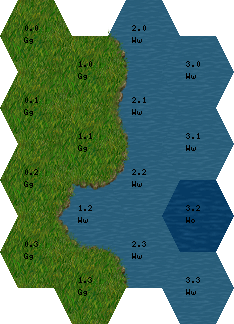
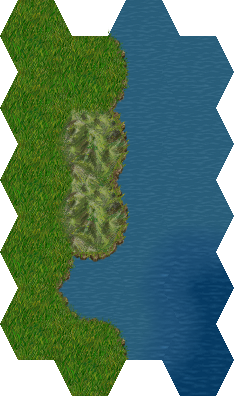
improved height transitions

diff --git a/config/height-transitions.php b/config/height-transitions.php
@@ -9,5 +9,10 @@ return array(
     //water to flat (grassland etc.)
     'water' => array(
         Transition::create($terrainTypes->get('flat'), array('flat/flat' => 3)),
+        Transition::create($terrainTypes->get('hills'), array('flat/flat' => 3)),
+    ),
+    'hills' => array(
+        Transition::create($terrainTypes->get('flat'), array('flat/flat' => 3)),
+        Transition::create($terrainTypes->get('water'), array('flat/flat' => 3)),
     ),
 );

diff --git a/config/terrain-transitions.php b/config/terrain-transitions.php
@@ -20,7 +20,8 @@ return array(
     
     //hills
     'Hh' => array(
-        Transition::create($terrainTypes->get('Gs'), array('grass/semi-dry' => 3)), 
+        Transition::create($terrainTypes->get('Gs'), array('grass/semi-dry' => 3)),
+        Transition::create($terrainTypes->get('Gg'), array('grass/green' => 3)),
     ),
     
     //dirt
